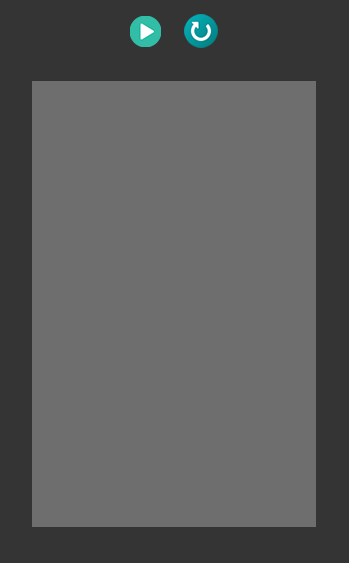
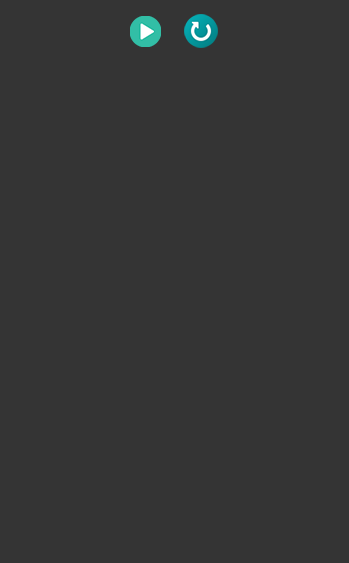
Creacion de tablero con gridpane y botones

diff --git a/BuscaCovid/src/buscacovid/InterfazMatricesController.java b/BuscaCovid/src/buscacovid/InterfazMatricesController.java
@@ -12,6 +12,8 @@ import javafx.fxml.FXML;
 import javafx.fxml.Initializable;
 import javafx.scene.control.Button;
 import javafx.scene.image.ImageView;
+import javafx.scene.layout.GridPane;
+import javafx.scene.layout.Pane;
 
 /**
  * FXML Controller class
@@ -26,14 +28,35 @@ public class InterfazMatricesController implements Initializable {
     private Button iniciarJuego;
     @FXML
     private Button reiniciarJuego;
+    @FXML
+    private Pane contenedorTablero;
 
     /**
      * Initializes the controller class.
      */
     @Override
     public void initialize(URL url, ResourceBundle rb) {
-        // TODO
-    }    
+        GridPane tablero = new GridPane();
+        if(FXMLDocumentController.getTamanioMatriz()==9){
+            for (int i = 0; i < 9; i++) {
+                for (int j = 0; j < 9; j++) {
+                    Button casilla = new Button();
+                    casilla.setMinSize(casilla.USE_PREF_SIZE,casilla.USE_PREF_SIZE);
+                    casilla.setPrefSize(45, 45);
+                    tablero.add(casilla, i, j);
+                }
+            }
+        }
+        else if(FXMLDocumentController.getTamanioMatriz()==16){
+            
+        }
+        else if(FXMLDocumentController.getTamanioMatriz()==32){
+            
+        }
+        
+        contenedorTablero.getChildren().add(tablero);
+    }  
+    
 
     @FXML
     private void iniciar(ActionEvent event) {

diff --git a/BuscaCovid/src/buscacovid/FXMLDocumentController.java b/BuscaCovid/src/buscacovid/FXMLDocumentController.java
@@ -35,23 +35,39 @@ public class FXMLDocumentController implements Initializable {
     @FXML
     private Button avanzado;
     
+    static int tamanioMatriz;
+
+    public static int getTamanioMatriz() {
+        return tamanioMatriz;
+    }
+
+    public static void setTamanioMatriz(int tamanioMatriz) {
+        FXMLDocumentController.tamanioMatriz = tamanioMatriz;
+    }
+    
     @Override
     public void initialize(URL url, ResourceBundle rb) {
-        // TODO
+        
+        
     }    
 
     @FXML
     private void nivelPrincipiante(ActionEvent event) throws IOException {
+        setTamanioMatriz(9);
         cambioEscena("interfazMatrices.fxml");
         
     }
 
     @FXML
-    private void nivelIntermedio(ActionEvent event) {
+    private void nivelIntermedio(ActionEvent event) throws IOException {
+        setTamanioMatriz(16);
+        cambioEscena("interfazMatrices.fxml");
     }
 
     @FXML
-    private void nivelAvanzado(ActionEvent event) {
+    private void nivelAvanzado(ActionEvent event) throws IOException {
+        setTamanioMatriz(32);
+        cambioEscena("interfazMatrices.fxml");
     }
     
     public void cambioEscena(String nombreFxml) throws IOException{
